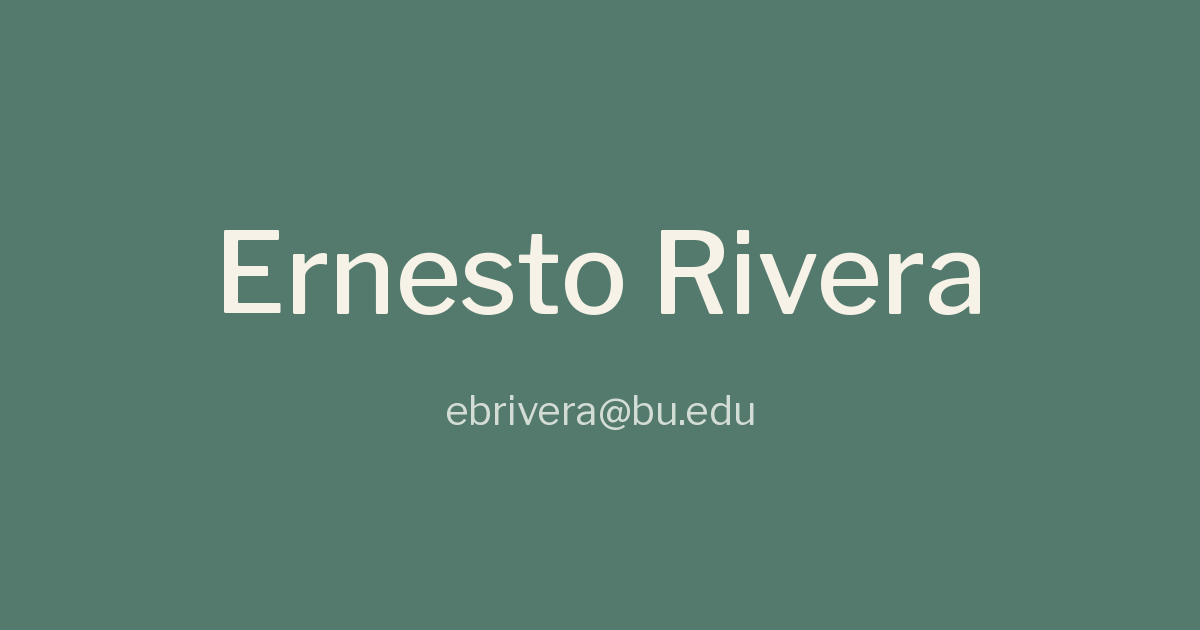
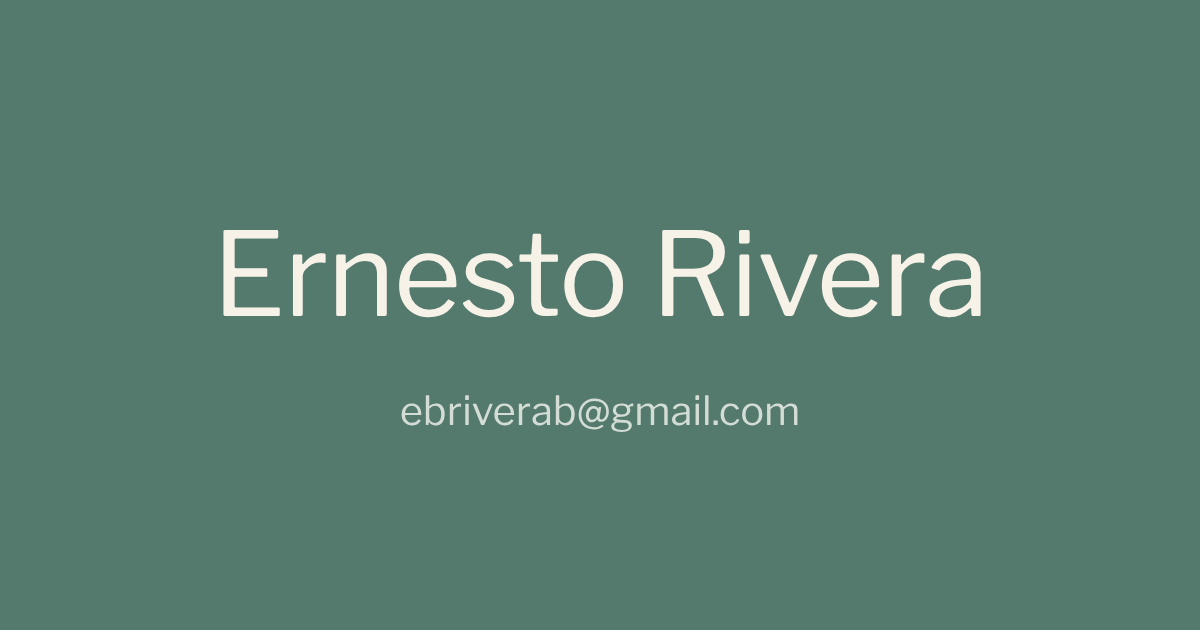
Launch the redesign at ebrivera.com, move the old site to /old, add analytics (#3)
* Switch contact email to ebriverab@gmail.com and add Calendly link

Updates the /new page (mailto links, meta descriptions, share image) and the
old contact page. The About page's calendly link now opens
https://calendly.com/ebriverab/30min.

Claude-Session: https://claude.ai/code/session_018ECjvVKQeMiFtrhzLK8vb9

* Update resume PDF

Claude-Session: https://claude.ai/code/session_018ECjvVKQeMiFtrhzLK8vb9

* Make the redesign the home page, move the old site to /old, add analytics

- public/new/index.html: apply all text-editor edits (intro with bullets, about,
  card copy, city-dot places map, film strip), drop noindex, add Vercel Web
  Analytics (per-panel page views + custom events) and Speed Insights
- next.config.ts: serve the redesign at /, redirect /new and old routes to /old/*
- src/app: old pages moved under src/app/old; Speed Insights in the layout

Claude-Session: https://claude.ai/code/session_018ECjvVKQeMiFtrhzLK8vb9

---------

diff --git a/public/new/index.html b/public/new/index.html
@@ -4,21 +4,25 @@
 <meta charset="utf-8">
 <meta name="viewport" content="width=device-width,initial-scale=1">
 <title>Ernesto Rivera</title>
-<meta name="description" content="ebrivera@bu.edu">
-<meta name="robots" content="noindex">
+<meta name="description" content="ebriverab@gmail.com">
 <link rel="icon" type="image/png" href="/new/icon.png">
 <link rel="apple-touch-icon" href="/new/apple-icon.png">
 <meta property="og:type" content="website">
-<meta property="og:url" content="https://www.ebrivera.com/new">
+<meta property="og:url" content="https://www.ebrivera.com/">
+<link rel="canonical" href="https://www.ebrivera.com/">
 <meta property="og:title" content="Ernesto Rivera">
-<meta property="og:description" content="ebrivera@bu.edu">
+<meta property="og:description" content="ebriverab@gmail.com">
 <meta property="og:image" content="https://www.ebrivera.com/new/og.png">
 <meta property="og:image:width" content="1200">
 <meta property="og:image:height" content="630">
 <meta name="twitter:card" content="summary_large_image">
 <meta name="twitter:title" content="Ernesto Rivera">
-<meta name="twitter:description" content="ebrivera@bu.edu">
+<meta name="twitter:description" content="ebriverab@gmail.com">
 <meta name="twitter:image" content="https://www.ebrivera.com/new/og.png">
+<!-- Vercel Web Analytics + Speed Insights. Page views are sent by hand (see track() below) so each panel (#about, #blog/...) counts as its own page. -->
+<script>window.va=window.va||function(){(window.vaq=window.vaq||[]).push(arguments)};window.si=window.si||function(){(window.siq=window.siq||[]).push(arguments)};</script>
+<script defer src="/_vercel/insights/script.js" data-disable-auto-track="1"></script>
+<script defer src="/_vercel/speed-insights/script.js"></script>
 <link rel="preconnect" href="https://fonts.googleapis.com">
 <link rel="stylesheet" href="https://fonts.googleapis.com/css2?family=Libre+Franklin:wght@400;500;600&display=swap">
 <style>
@@ -198,7 +202,20 @@ h2{font-size:15.5px;font-weight:500;margin-bottom:6px}
 
 /* short laptop screens: keep the home on one screen */
 .col{overflow-y:auto;justify-content:safe center;scrollbar-width:none}
-@media (max-height:820px) and (min-width:821px){.col{padding:24px 0}.blurb{margin-top:14px}.blurb{font-size:14.5px;line-height:1.5}nav{margin-top:18px}.exp{margin-top:18px}.exp li{padding:7px 0}.contact{margin-top:18px}}
+/* rich text: paragraphs and bullet lists */
+.blurb .rich>*+*{margin-top:12px}
+.blurb .rich+.welcome{margin-top:12px}
+.inner .rich>*+*{margin-top:1em}
+.rich p+ul.ticks{margin-top:6px!important}
+.ticks{list-style:none;display:flex;flex-direction:column;gap:3px}
+.inner .ticks{max-width:52ch}
+.ticks li{position:relative;padding-left:18px}
+.ticks li::before{content:"";position:absolute;left:3px;top:.68em;width:6px;height:1.5px;background:var(--acc)}
+.where:empty{display:none}
+/* light bold: one step heavier than the text around it */
+strong.lb{font-weight:500;color:inherit}
+b strong.lb,h2 strong.lb,h4 strong.lb,.name strong.lb,nav strong.lb{font-weight:600}
+@media (max-height:960px) and (min-width:821px){.col{padding:24px 0}.blurb{margin-top:14px;font-size:14.5px;line-height:1.5}.blurb .rich>*+*,.blurb .rich+.welcome{margin-top:9px}.ticks{gap:1px}nav{margin-top:18px}.exp{margin-top:18px}.exp li{padding:7px 0}.contact{margin-top:18px}}
 /* ---------- show and tell: the toy chest ---------- */
 .hint{color:var(--faint);font-size:13px;margin:-6px 0 14px}
 .chestwrap{max-width:560px;container-type:inline-size;margin-top:14px}
@@ -250,6 +267,14 @@ h2{font-size:15.5px;font-weight:500;margin-bottom:6px}
 .legend{display:flex;gap:12px;font-size:12px}
 .legend i{display:inline-block;width:8px;height:8px;border-radius:50%;margin-right:5px;vertical-align:0}
 .rows a{text-decoration:none}
+/* photos card: a short strip of film frames */
+.backside .strip{display:flex;gap:6px;background:#1f2421;padding:12px 8px;border-radius:3px;position:relative;
+  background-image:radial-gradient(circle at 50% 50%,#f4efe3 1.6px,transparent 2px),radial-gradient(circle at 50% 50%,#f4efe3 1.6px,transparent 2px);
+  background-size:12px 8px,12px 8px;background-position:0 1px,0 calc(100% + 0px);background-repeat:repeat-x}
+.backside .strip img{flex:1;min-width:0;aspect-ratio:3/2;object-fit:cover;display:block;border-radius:1px}
+.card.wide .backside{overflow:auto}
+#jmap path,#jmap circle{cursor:default}
+.jvm-tooltip{z-index:30}
 /* ---------- blog ---------- */
 .posts a{display:block}
 .posts .t span{white-space:nowrap}
@@ -274,11 +299,16 @@ svg{-ms-touch-action:none;touch-action:none}.jvm-container{touch-action:none;pos
 
 <aside class="col">
   <div class="name"><button id="home">Ernesto Rivera</button><button class="homeicon" id="homenav" aria-label="home" title="home"><svg viewBox="0 0 24 24" fill="none" stroke="currentColor" stroke-width="1.8" stroke-linecap="round" stroke-linejoin="round"><path d="M3 10.5 12 3l9 7.5"/><path d="M5 9.5V21h5v-6h4v6h5V9.5"/></svg></button></div>
-  <div class="fold"><div><p class="where">I'm Ernesto, I'm from California, and I love building projects people can use!</p></div></div>
+  <div class="fold"><div><p class="where"></p></div></div>
 
   <div class="fold blurb"><div>
-    <p>I've always been drawn to solving problems that can improve people's lives. A natural born problem solver, I was drawn to hackathons in college, surmounting over $65,000 in prize money along with Global Nomination in other competitions. Dabbled a bit in startups throughout college, working in EduTech + Dev Tools + Construction Tech. Previously at Wayfair on the Financing Technology Team delivering products that reached the millions of customers they had, and now working at IBM doing Agent Orchestration Infrastructure on watsonx Orchestrate.</p>
-    <p class="welcome">Thank you for taking the time to visit my website! I love talking to people about their background, what their working on, or what they're listening to, so feel free to reach out or add a song to my queue!</p>
+    <div class="rich">
+    <p>I work on the IBM watsonx Orchestrate team building agentic infrastructure.</p>
+    <p>I grew up in Las Vegas, Los Angeles, and Orange County. I recently graduated from Boston University with a degree in Computer Science, and now live in the Bay Area.</p>
+    <p>My general interests:</p>
+    <ul class="ticks"><li>Building software to solve everyday problems for people</li><li>The intersection of Distributed Systems and Artificial Intelligence</li><li>Startups, hackathons ($65,000+ wins), fast-paced environments, bold ideas</li><li>Exploring the world physically and culinarily (and caffeinatedly)</li></ul>
+    </div>
+    <p class="welcome">Thank you for taking the time to visit my website! I love talking to people about their background, what they're working on, or what they're listening to, so feel free to reach out, look through the rest of my website, or add a song to my queue!</p>
   </div></div>
 
   <nav>
@@ -351,9 +381,10 @@ svg{-ms-touch-action:none;touch-action:none}.jvm-container{touch-action:none;pos
 </template>
 
 <script>
-const WORK=[["IBM","Software Developer","2026 – Present"],["Cantena","Founder","2025 – 26"],["Wayfair","Software Engineer Intern","2025"],["Whiting-Turner","Data Architecture Engineer","2024"],["MyTA","Founding Engineer","2023 – 24"]];
-const PROJ=[["Swarm","Browser-native distributed LLM training","https://tryswarm.dev/"],["Agent Checkout Proof","Is your website ready for Agents to pay?","https://isyouragentreadytopay.vercel.app/"],["Does Not Exist","LLM Planner + Diffusion Model = On Demand Website","https://dne-canvas-demo-production.up.railway.app/demo"],["OCR Digit Classifier","Draw a digit, can we figure it out?","https://github.com/ebrivera/knn-ocr"]];
-const POSTS=[{slug:"training-across-browser-tabs",title:"Training a language model across browser tabs",date:"August 19th 2026"}];
+const WORK=[["IBM", "Software Developer", "2026 – Present"], ["Cantena", "Founder", "2025 – 26"], ["Wayfair", "Software Engineer Intern", "2025"], ["Whiting-Turner", "Data Architecture Engineer", "2024"], ["MyTA", "Founding Engineer", "2023 – 24"]];
+const PROJ=[["Swarm", "Browser-native distributed LLM training", "https://tryswarm.dev/"], ["Agent Checkout Proof", "Is your website ready for Agents to pay?", "https://isyouragentreadytopay.vercel.app/"], ["Does Not Exist", "LLM Planner + Diffusion Model = On Demand Website", "https://dne-canvas-demo-production.up.railway.app/demo"], ["OCR Digit Classifier", "Draw a digit, can we figure it out?", "https://github.com/ebrivera/knn-ocr"]];
+const POSTS=[{"slug": "training-across-browser-tabs", "title": "Training a language model across browser tabs", "date": "August 19th 2026"}];
+const md=s=>String(s).replace(/\*\*([^*]+?)\*\*/g,'<strong class="lb">$1</strong>');
 const host=u=>u.replace(/^https?:\/\//,'').replace(/\/$/,'');
 const I={
  gh:'<svg viewBox="0 0 16 16"><path d="M8 0C3.58 0 0 3.58 0 8c0 3.54 2.29 6.53 5.47 7.59.4.07.55-.17.55-.38 0-.19-.01-.82-.01-1.49-2.01.37-2.53-.49-2.69-.94-.09-.23-.48-.94-.82-1.13-.28-.15-.68-.52-.01-.53.63-.01 1.08.58 1.23.82.72 1.21 1.87.87 2.33.66.07-.52.28-.87.51-1.07-1.78-.2-3.64-.89-3.64-3.95 0-.87.31-1.59.82-2.15-.08-.2-.36-1.02.08-2.12 0 0 .67-.21 2.2.82.64-.18 1.32-.27 2-.27.68 0 1.36.09 2 .27 1.53-1.04 2.2-.82 2.2-.82.44 1.1.16 1.92.08 2.12.51.56.82 1.27.82 2.15 0 3.07-1.87 3.75-3.65 3.95.29.25.54.73.54 1.48 0 1.07-.01 1.93-.01 2.2 0 .21.15.46.55.38A8.013 8.013 0 0016 8c0-4.42-3.58-8-8-8z"/></svg>',
@@ -362,23 +393,44 @@ const I={
  mail:'<svg viewBox="0 0 16 16"><path d="M0 4a2 2 0 0 1 2-2h12a2 2 0 0 1 2 2v8a2 2 0 0 1-2 2H2a2 2 0 0 1-2-2zm2-1a1 1 0 0 0-1 1v.217l7 4.2 7-4.2V4a1 1 0 0 0-1-1zm13 2.383-4.708 2.825L15 11.105zm-.034 6.876-5.64-3.471L8 9.583l-1.326-.795-5.64 3.47A1 1 0 0 0 2 13h12a1 1 0 0 0 .966-.741M1 11.105l4.708-2.897L1 5.383z"/></svg>'
 };
 const $=s=>document.querySelector(s),$$=s=>[...document.querySelectorAll(s)];
-$('#exp').innerHTML=WORK.map(w=>`<li><span><b>${w[0]}</b> <span class="r">${w[1]}</span></span><span class="d">${w[2]}</span></li>`).join("");
-$('#contact').innerHTML=`<a href="https://github.com/ebrivera" target="_blank" rel="noopener" aria-label="GitHub">${I.gh}</a><a href="https://www.linkedin.com/in/ernestobrivera/" target="_blank" rel="noopener" aria-label="LinkedIn">${I.li}</a><a href="https://x.com/ernestobrivera" target="_blank" rel="noopener" aria-label="X">${I.x}</a><a class="resume" href="/ErnestoRivera_Resume.pdf" download="ErnestoRivera_Resume.pdf" aria-label="Download resume (PDF)"><svg viewBox="0 0 24 24"><path d="M11 3h2v10.2l3.6-3.6 1.4 1.4-6 6-6-6 1.4-1.4 3.6 3.6zM4 19h16v2H4z"/></svg><span>Resume</span></a><a class="mail" href="mailto:ebrivera@bu.edu">${I.mail}<span>say hi</span></a>`;
+/* ---------- analytics: one page view per panel, plus a few custom events ---------- */
+const track=(name,data)=>{try{window.va('event',{name,data})}catch(e){}};
+let lastView=null;
+const pageview=p=>{const path='/'+(p||'');if(path===lastView)return;lastView=path;
+  try{window.va('pageview',{route:p&&p.startsWith('blog/')?'/blog/[slug]':path,path})}catch(e){}};
+document.addEventListener('click',e=>{const a=e.target.closest('a[href]');if(!a)return;const h=a.getAttribute('href');
+  if(h.endsWith('.pdf'))track('Resume Downloaded');
+  else if(h.startsWith('mailto:'))track('Contact Clicked',{via:'email',from:a.closest('.contact')?'sidebar':'about'});
+  else if(h.includes('calendly.com'))track('Contact Clicked',{via:'calendly'});
+  else if(h.includes('linkedin.com'))track('Contact Clicked',{via:'linkedin'});
+  else if(h.includes('x.com/'))track('Contact Clicked',{via:'x'});
+  else if(h==='https://github.com/ebrivera')track('Contact Clicked',{via:'github'});
+  else if(a.closest('.rows')&&!a.closest('.posts'))track('Project Visited',{name:a.querySelector('b').textContent});
+  else if(a.closest('.np'))track('Song Opened On Spotify');},true);
+$('#exp').innerHTML=WORK.map(w=>`<li><span><b>${md(w[0])}</b> <span class="r">${md(w[1])}</span></span><span class="d">${w[2]}</span></li>`).join("");
+$('#contact').innerHTML=`<a href="https://github.com/ebrivera" target="_blank" rel="noopener" aria-label="GitHub">${I.gh}</a><a href="https://www.linkedin.com/in/ernestobrivera/" target="_blank" rel="noopener" aria-label="LinkedIn">${I.li}</a><a href="https://x.com/ernestobrivera" target="_blank" rel="noopener" aria-label="X">${I.x}</a><a class="resume" href="/ErnestoRivera_Resume.pdf" download="ErnestoRivera_Resume.pdf" aria-label="Download resume (PDF)"><svg viewBox="0 0 24 24"><path d="M11 3h2v10.2l3.6-3.6 1.4 1.4-6 6-6-6 1.4-1.4 3.6 3.6zM4 19h16v2H4z"/></svg><span>Resume</span></a><a class="mail" href="mailto:ebriverab@gmail.com">${I.mail}<span>say hi</span></a>`;
 
 const PAGES={
- about:()=>`<h2>About</h2><p class="sub">the longer version</p>
-  <p><span class="ph">the expanded about, coming from you</span></p>
-  <div class="sec"><h3>Show and tell</h3><p class="hint">pull something out of the chest</p>
+ about:()=>`<h2>About</h2><p class="sub">curious to learn more?</p>
+  <div class="rich">
+  <p>If you've made it this far, thank you once again. I'm Ernesto, and I'd love to tell you more about who I am, what interests me, and how I got here.</p>
+  <p>I was born with a love for solving problems. With the abundance of books I was gifted as a 6-year-old, the first thing my dad taught me to build was a bookshelf. I loved assembling and giving life to parts and pieces, which is naturally how I fell into robotics. Moving from school to school, I couldn't count on robotics to be a constant.</p>
+  <p>I was introduced properly to Java in my 7th grade AP Computer Science class. I unknowingly opened Pandora's box, and discovered how much you could do behind the 104 keys on your computer. Simultaneously being bored with current solutions, I turned to my love for programming when I started my first high school internship doing manual data entry and became engulfed in the wonders of Computer Vision. Since then, I've only gained a deeper appreciation for the variety of tools we have access to and regularly experimented with new technologies at the hackathons I frequented in college. Agents, MetaHumans, Virtual Reality, Digital Twins, and Voice Agents just to name a few of the tricks I've pulled out of my sleeve to help with the success in the competitions I've attended.</p>
+  <p>Which brings me to my love for startups. I obsess over the technology I build, and I'm drawn to people who similarly obsess over solving problems. I enjoy fast-paced environments where I can be proud to own the work I put out, and be surrounded by people who are willing to take bold risks. I've been a part of a few startups throughout college, between translation services, EduTech, DevTooling and Construction Tech, but the main thing I learned is that contributing to a determined team is euphoric.</p>
+  <p>I've spent some time at larger companies as well. I spent a summer with Wayfair developing on their Financing Technology team on services that reached the millions of customers they had, and now I'm working at IBM doing Agent Orchestration Infrastructure.</p>
+  <p>As I look to the future, I am excited about the opportunity to contribute to the frontier. I'm always finding interest in new subjects, but I'm currently fascinated with building and exploring projects in Inference, Distributed Systems, Computer Vision, FinTech, Agent Communication and Interaction, HCI, and Robotics. I like to surround myself with other inquisitive, determined, and kind people. I'm always looking to make new friends, and share ideas, so please feel free to reach out if any of this resonates with you.</p>
+  </div>
+  <div class="sec"><h3>Show and tell</h3><p class="hint">you'll find some of my biggest interests in this crate; click on any to learn more!</p>
    <div class="chestwrap"><div class="chest" id="chest">
     ${STICKERS.map((k,i)=>`<button class="st" data-k="${k.id}" style="left:${k.x}%;--r:${k.r}deg;--dy:${k.dy}" aria-label="${k.label}"><span class="tag">${k.label}</span>${k.mini}</button>`).join("")}
     <div class="inside"><img src="${A}crate-back.webp" alt=""></div>
     <div class="box">${CHEST}</div>
    </div></div></div>
-  <div class="sec"><p>Thank you for visiting my website, if you've made it this far, let's set up time to talk! Reach out via <a href="mailto:ebrivera@bu.edu">email</a> or my <a href="#" class="missing" title="calendly link needed" onclick="return false">calendly link</a>!</p></div>`,
- projects:()=>`<h2>Projects</h2><p class="sub">things I've built</p>
-  <ul class="rows">${PROJ.map(p=>`<li><a href="${p[2]}" target="_blank" rel="noopener"><div class="t"><b>${p[0]}</b><span class="visit" title="${host(p[2])}">visit</span></div><p>${p[1]}</p></a></li>`).join("")}</ul>
+  <div class="sec"><p>Thank you for visiting my website! If you've made it this far, let's set up time to talk! Reach out via <a href="mailto:ebriverab@gmail.com">email</a> or my <a href="https://calendly.com/ebriverab/30min" target="_blank" rel="noopener">calendly link</a>!</p></div>`,
+ projects:()=>`<h2>Projects</h2><p class="sub">here are some things I've built!</p>
+  <ul class="rows">${PROJ.map(p=>`<li><a href="${p[2]}" target="_blank" rel="noopener"><div class="t"><b>${md(p[0])}</b><span class="visit" title="${host(p[2])}">visit</span></div><p>${md(p[1])}</p></a></li>`).join("")}</ul>
   <div class="sec"><p>Currently building in inference and RL, come back to see what I build!</p></div>`,
- blog:()=>`<h2>Blog</h2><p class="sub">things I've written</p>
+ blog:()=>`<h2>Blog</h2><p class="sub">thoughts I'd like to share</p>
   <ul class="rows posts">${POSTS.map(p=>`<li><a href="#blog/${p.slug}"><div class="t"><b>${p.title}</b><span>${p.date}</span></div></a></li>`).join("")}</ul>`
 };
 const post=slug=>{const p=POSTS.find(x=>x.slug===slug),t=document.getElementById('post-'+slug);return p&&t?`<h2>${p.title}</h2><p class="sub">Ernesto Rivera · ${p.date}</p>
@@ -420,41 +472,38 @@ const A='/new/p/';
 const IMG={travel:['passport.webp','a US passport'],coffee:['coffee.webp','a bag of Equator Tigerwalk Espresso'],hifi:['l82.webp','a JBL L82 Classic speaker'],tri:['bib.webp','Wharf to Wharf race bib'],film:['camera.webp','Olympus Trip 35 film camera']};
 const pic=(k,w)=>`<img src="${A}${IMG[k][0]}" alt="${IMG[k][1]}" style="width:calc(${w}cqw / 5.6)"${k==='hifi'?' class="recv"':''}>`;
 const STICKERS=[
- {id:'travel',label:'places',x:13,r:-8,dy:'-3cqw',mini:pic('travel',108)},
- {id:'film',label:'photos',x:22,r:-5,dy:'-13cqw',mini:pic('film',142)},
- {id:'coffee',label:'coffee',x:38,r:3,dy:'0cqw',mini:pic('coffee',128)},
- {id:'tri',label:'training',x:60.5,r:5,dy:'-4cqw',mini:pic('tri',136)},
- {id:'hifi',label:'listening',x:53.5,r:-2,dy:'0cqw',mini:pic('hifi',104)}
+ {id:'travel',label:"travel",x:13,r:-8,dy:'-3cqw',mini:pic('travel',108)},
+ {id:'film',label:"photos",x:22,r:-5,dy:'-13cqw',mini:pic('film',142)},
+ {id:'coffee',label:"coffee",x:38,r:3,dy:'0cqw',mini:pic('coffee',128)},
+ {id:'tri',label:"training",x:60.5,r:5,dy:'-4cqw',mini:pic('tri',136)},
+ {id:'hifi',label:"listening",x:53.5,r:-2,dy:'0cqw',mini:pic('hifi',104)}
 ];
 const CHEST=`<img src="${A}crate-front.webp" alt="">`;
+const FILM=['film1.webp','film2.webp','film3.webp'];
 const BACK={
- travel:`<h4>Places</h4><dl><dt>favorite</dt><dd><span class="ph2">your favorite place and why</span></dd>
-  <dt>next</dt><dd>New York on Nov 16, then London on Nov 19</dd>
-  <dt>pinned</dt><dd>California, Boston, New York, London, Paris</dd></dl>
+ travel:`<h4>Places</h4><dl><dt>favorite</dt><dd>Tie between Amsterdam &amp; Bangkok! But every place holds a special place in my heart</dd><dt>next</dt><dd>New York on Nov 16, then London on Nov 19</dd></dl>
   <p class="credit">Photo: US passport by ajay_suresh, CC BY 2.0</p>`,
- coffee:`<h4>Coffee in rotation</h4><dl><dt>beans</dt><dd>Equator, Mexico</dd><dt>machine</dt><dd>Breville Bambino Plus</dd>
-  <dt>eyeing</dt><dd>a grinder upgrade, Opus 2 or Turin DF54</dd><dt>setup</dt><dd><span class="ph2">links to your setup</span></dd></dl>
+ coffee:`<h4>Coffee in rotation</h4><dl><dt>beans</dt><dd>Equator, Mexico</dd><dt>machine</dt><dd>Breville Bambino Plus</dd><dt>eyeing</dt><dd>a grinder upgrade, Opus 2 or Turin DF54</dd></dl>
   <p class="credit">Bag: Tigerwalk Espresso, product photo from Equator Coffees</p>`,
- hifi:`<h4>What I listen on</h4><dl><dt>speakers</dt><dd>ELAC towers</dd><dt>amp</dt><dd>WiiM</dd><dt>dream</dt><dd>JBL L82</dd>
-  <dt>note</dt><dd><span class="ph2">a line about your setup or a record to try</span></dd></dl>
+ hifi:`<h4>What I listen on</h4><dl><dt>speakers</dt><dd>ELAC towers</dd><dt>amp</dt><dd>WiiM</dd><dt>dream</dt><dd>JBL L82</dd><dt>note</dt><dd>I love listening to music, and getting good speakers upgraded my experience.</dd></dl>
   <p class="credit">Speaker: JBL L82 Classic MkII, product photo from JBL via Peter Tyson</p>`,
- tri:`<h4>Training</h4><dl><dt>race</dt><dd>Santa Cruz City Tri, Olympic distance</dd><dt>distance</dt><dd>1.5 km swim, 40 km bike, 10 km run</dd>
-  <dt>why</dt><dd><span class="ph2">why you race, or your goal time</span></dd></dl>
+ tri:`<h4>Training</h4><dl><dt>raced</dt><dd>Santa Cruz City Tri, Olympic distance, on Sunday, Sept 27</dd><dt>distance</dt><dd>1.5 km swim, 40 km bike, 10 km run</dd><dt>why</dt><dd>A good reason to get back into shape, and a fun way to explore Santa Cruz while I'm out here in the Bay.</dd></dl>
   <p class="credit">Bib: Wharf to Wharf 2012 by fogcat5, CC BY-SA 2.0</p>`,
- film:`<h4>Photos</h4><dl><dt>camera</dt><dd>my mom's old Olympus, on 35mm film</dd>
-  <dt>note</dt><dd><span class="ph2">a line about shooting film</span></dd><dt>coming</dt><dd>a photos page, later</dd></dl>
+ film:`<h4>Photos</h4><dl><dt>camera</dt><dd>my mom's old Olympus, on 35mm film</dd></dl><div class="strip">${FILM.map(f=>`<img src="${A}${f}" alt="">`).join('')}</div>
   <p class="credit">Photo: Olympus Trip 35 by Marc Lacoste, CC BY 2.0</p>`
 };
-const FRONT={travel:'places I\'ve been',coffee:'coffee in rotation',hifi:'the dream: JBL L82',tri:'Santa Cruz City Tri',film:'35mm'};
-const PLACES=[{name:'California, home',coords:[37.34,-121.89]},{name:'Boston',coords:[42.36,-71.06]},{name:'New York, next: Nov 16',coords:[40.71,-74.0],next:1},{name:'London, next: Nov 19',coords:[51.51,-0.13],next:1},{name:'Paris',coords:[48.86,2.35]}];
+const FRONT={"travel": "places I've been", "coffee": "coffee in rotation", "hifi": "the dream: JBL L82", "tri": "Santa Cruz City Tri", "film": "35mm"};
+// every dot on the places map: a small card on hover, nothing to click
+const PLACES=[{"city":"Tokyo","country":"Japan","coords":[35.68,139.69]},{"city":"Kyoto","country":"Japan","coords":[35.01,135.77]},{"city":"Osaka","country":"Japan","coords":[34.69,135.5]},{"city":"Kobe","country":"Japan","coords":[34.69,135.2]},{"city":"Kuala Lumpur","country":"Malaysia","coords":[3.14,101.69]},{"city":"Penang","country":"Malaysia","coords":[5.41,100.33]},{"city":"Singapore","country":"Singapore","coords":[1.35,103.82]},{"city":"Bangkok","country":"Thailand","coords":[13.76,100.5]},{"city":"Hanoi","country":"Vietnam","coords":[21.03,105.85]},{"city":"Chengdu","country":"China","coords":[30.57,104.07]},{"city":"Abu Dhabi","country":"United Arab Emirates","coords":[24.45,54.38]},{"city":"London","country":"United Kingdom","coords":[51.51,-0.13]},{"city":"Manchester","country":"United Kingdom","coords":[53.48,-2.24]},{"city":"Liverpool","country":"United Kingdom","coords":[53.41,-2.98]},{"city":"Paris","country":"France","coords":[48.86,2.35]},{"city":"Marseille","country":"France","coords":[43.3,5.37]},{"city":"Amsterdam","country":"Netherlands","coords":[52.37,4.9]},{"city":"Berlin","country":"Germany","coords":[52.52,13.4]},{"city":"Munich","country":"Germany","coords":[48.14,11.58]},{"city":"Salzburg","country":"Austria","coords":[47.81,13.06]},{"city":"Budapest","country":"Hungary","coords":[47.5,19.04]},{"city":"Geneva","country":"Switzerland","coords":[46.2,6.14]},{"city":"Rome","country":"Italy","coords":[41.9,12.5]},{"city":"Florence","country":"Italy","coords":[43.77,11.26]},{"city":"Venice","country":"Italy","coords":[45.44,12.32]},{"city":"Santiago de Compostela","country":"Spain","coords":[42.88,-8.54]},{"city":"Lisbon","country":"Portugal","coords":[38.72,-9.14]},{"city":"Toronto","country":"Canada","coords":[43.65,-79.38]},{"city":"Mexico City","country":"Mexico","coords":[19.43,-99.13]},{"city":"San Francisco","country":"United States","coords":[37.77,-122.42]},{"city":"Los Angeles","country":"United States","coords":[34.05,-118.24]},{"city":"San Diego","country":"United States","coords":[32.72,-117.16]},{"city":"Las Vegas","country":"United States","coords":[36.17,-115.14]},{"city":"Seattle","country":"United States","coords":[47.61,-122.33]},{"city":"Portland","country":"United States","coords":[45.52,-122.68]},{"city":"Anchorage","country":"United States","coords":[61.22,-149.9]},{"city":"Hawaii","country":"United States","coords":[21.31,-157.86]},{"city":"Salt Lake City","country":"United States","coords":[40.76,-111.89]},{"city":"Zion National Park","country":"United States","coords":[37.3,-113.03]},{"city":"Yellowstone National Park","country":"United States","coords":[44.43,-110.59]},{"city":"Mount Rushmore","country":"United States","coords":[43.88,-103.46]},{"city":"Denver","country":"United States","coords":[39.74,-104.99]},{"city":"Austin","country":"United States","coords":[30.27,-97.74]},{"city":"San Antonio","country":"United States","coords":[29.42,-98.49]},{"city":"Chicago","country":"United States","coords":[41.88,-87.63]},{"city":"Interlochen","country":"United States","coords":[44.64,-85.77]},{"city":"New Orleans","country":"United States","coords":[29.95,-90.07]},{"city":"Pensacola","country":"United States","coords":[30.42,-87.22]},{"city":"Orlando","country":"United States","coords":[28.54,-81.38]},{"city":"Atlanta","country":"United States","coords":[33.75,-84.39]},{"city":"Savannah","country":"United States","coords":[32.08,-81.09]},{"city":"Washington, D.C.","country":"United States","coords":[38.91,-77.04]},{"city":"New York City","country":"United States","coords":[40.71,-74.01]},{"city":"New Haven","country":"United States","coords":[41.31,-72.92]},{"city":"Boston","country":"United States","coords":[42.36,-71.06]},{"city":"Madrid","country":"Spain","coords":[40.42,-3.7]}];
 let openCard=null;
 function openSticker(btn){
   if(openCard)return;
   const k=btn.dataset.k,from=btn.getBoundingClientRect(),pg=$('#page').getBoundingClientRect();
+  track('Sticker Opened',{item:k});
   const scrim=document.createElement('div');scrim.className='scrim';document.body.appendChild(scrim);
   const card=document.createElement('div');card.className='card'+(k==='travel'?' wide':'');
   const art=k==='travel'?'<div id="jmap"></div>':`<img src="${A}${IMG[k][0]}" alt="${IMG[k][1]}"${k==='hifi'?' style="border-radius:8px"':''}>`;
-  const legend=k==='travel'?`<span class="legend"><span><i style="background:${C.gold}"></i>been</span><span><i style="background:${C.red}"></i>next</span></span>`:'';
+  const legend=k==='travel'?`<span class="legend"><span><i style="background:${C.gold}"></i>been</span></span>`:'';
   card.innerHTML=`<div class="flip"><div class="face front"><div class="cardart${k==='travel'?' mapart':''}">${art}</div>
     <div class="cap"><span>${FRONT[k]}</span>${legend}<span class="cardbtns"><button data-a="flip">turn over</button><button data-a="close" aria-label="put it back">×</button></span></div></div>
     <div class="face backside">${BACK[k]}<div class="cardbtns"><button data-a="flip">turn over</button><button data-a="close">put it back</button></div></div></div>`;
@@ -467,9 +516,11 @@ function openSticker(btn){
   card.animate([{transform:`translate(${dx}px,${dy}px) scale(${sx},${sy}) rotate(${getComputedStyle(btn).getPropertyValue('--r')})`,opacity:.6},{transform:'translate(0,-24px) scale(1.04)',opacity:1,offset:.7},{transform:'none',opacity:1}],{duration:650,easing:'cubic-bezier(.2,.8,.2,1)'});
   let vmap=null;
   if(k==='travel')setTimeout(()=>{try{vmap=new jsVectorMap({selector:'#jmap',map:'world',zoomButtons:true,zoomOnScroll:false,backgroundColor:'transparent',
-     regionStyle:{initial:{fill:'#54796d',stroke:'#f4efe3',strokeWidth:.5},hover:{fill:'#3f6256'}},
-     markers:PLACES,markerStyle:{initial:{fill:C.gold,stroke:'#2f4b40',strokeWidth:1.5,r:6},hover:{fill:'#fff'}},
-     onLoaded(m){PLACES.forEach((p,i)=>{if(p.next){const el=document.querySelector(`#jmap [data-index="${i}"]`);el&&el.setAttribute('fill',C.red)}})}})}catch(e){$('#jmap').innerHTML='<p style="padding:20px;color:var(--muted)">map could not load</p>'}},700);
+     regionStyle:{initial:{fill:'#54796d',stroke:'#f4efe3',strokeWidth:.5},hover:{fill:'#54796d',cursor:'default'}},
+     showTooltip:true,markers:PLACES.map(x=>({name:x.city,coords:x.coords})),
+     markerStyle:{initial:{fill:C.gold,stroke:'#2f4b40',strokeWidth:1,r:3.2},hover:{fill:'#fff6d8',stroke:'#2f4b40',cursor:'default'}},
+     onRegionTooltipShow(e,t){t.hide()},
+     onMarkerTooltipShow(e,t,i){const x=PLACES[i];t.text(`<b>${x.city}</b>${x.country?'<br>'+x.country:''}`,true)}})}catch(e){$('#jmap').innerHTML='<p style="padding:20px;color:var(--muted)">map could not load</p>'}},700);
   // put it back: the card fades away while the sticker itself flies back to its spot in the chest
   let closing=false;
   const close=()=>{if(closing)return;closing=true;scrim.classList.remove('on');
@@ -490,7 +541,7 @@ function openSticker(btn){
     fly.animate(frames,{duration:480,easing:'cubic-bezier(.3,.7,.2,1)',fill:'forwards'}).onfinish=()=>{
       btn.classList.remove('out');fly.remove();btn.animate([{translate:`0 ${-lift}px`},{translate:'0 0'}],{duration:280,easing:'cubic-bezier(.5,0,.6,1.25)'});try{vmap&&vmap.destroy()}catch(e){};document.querySelectorAll('.jvm-tooltip').forEach(t=>t.remove());
       card.remove();scrim.remove();openCard=null;btn.focus({preventScroll:true})}};
-  card.addEventListener('click',e=>{const a=e.target.closest('[data-a]');if(!a)return;if(a.dataset.a==='flip')card.classList.toggle('back');else close()});
+  card.addEventListener('click',e=>{const a=e.target.closest('[data-a]');if(!a)return;if(a.dataset.a==='flip'){card.classList.toggle('back');if(card.classList.contains('back'))track('Card Turned Over',{item:k})}else close()});
   scrim.onclick=close;openCard={close};
   setTimeout(()=>card.querySelector('[data-a=flip]').focus({preventScroll:true}),660);
 }
@@ -506,6 +557,7 @@ function go(p){
   if(openCard)openCard.close();
   const inner=$('#inner');
   $$('nav button[data-p]').forEach(b=>b.classList.toggle('on',!!p&&b.dataset.p===p.split('/')[0]));
+  pageview(p);
   if(!p){document.body.classList.remove('open');cur=null;inner.classList.remove('show');try{history.replaceState(null,'',location.pathname)}catch(e){};return}
   const wasOpen=document.body.classList.contains('open');
   inner.classList.remove('show');
@@ -519,7 +571,7 @@ $('#homenav').onclick=()=>go(null);
 $('#home').onclick=()=>go(null);
 addEventListener('keydown',e=>{if(e.key==='Escape')go(null)});
 addEventListener('hashchange',()=>go(view(location.hash.slice(1))?location.hash.slice(1):null));
-if(view(location.hash.slice(1)))go(location.hash.slice(1));
+if(view(location.hash.slice(1)))go(location.hash.slice(1));else pageview(null);
 
 // big album card
 (function(){
@@ -537,7 +589,7 @@ if(view(location.hash.slice(1)))go(location.hash.slice(1));
     ['click','wheel','touchmove','keydown','scroll'].forEach(e=>removeEventListener(e,close,{capture:true}));
     big.classList.add('out');setTimeout(()=>{if(big.classList.contains('out'))big.hidden=true},250);
   }
-  art.onclick=e=>{if(big.hidden||big.classList.contains('out')){e.stopPropagation();open()}};
+  art.onclick=e=>{if(big.hidden||big.classList.contains('out')){e.stopPropagation();open();track('Album Art Opened')}};
 })();
 
 // add to queue (mock: a real version calls a small API route that adds to Spotify)
@@ -622,10 +674,12 @@ $('#pi').style.width=(t/L*100)+'%';
       let r=null,d={};
       try{r=await fetch('/api/spotify/queue',{method:'POST',headers:{'Content-Type':'application/json'},body:JSON.stringify({uri:t.uri,name:who})});d=await r.json().catch(()=>({}))}catch(e){}
       if(r&&r.ok){
+        track('Song Queued',{title:t.title.slice(0,200),artist:t.artist.slice(0,200),named:who?'yes':'no'});
         qres.innerHTML=`<li class="done"><span class="c" style="background:${cover(t)}"></span><div><b>Queued: ${esc(t.title)}</b><span>thanks${who?', '+who:''}. ${d.pending?"it goes in my queue next time I'm listening":"it's in the queue"}</span></div></li>`;
         // refresh the bar and the "coming up" list from Spotify instead of guessing where the song landed
         setTimeout(()=>poll(true),700);setTimeout(()=>poll(true),3000);
         qbtn.textContent='queued ✓';setTimeout(()=>{close();qbtn.textContent='+ add to my queue'},1800);return}
+      track('Queue Failed',{reason:d.error||'error'});
       const msg=d.error==='not_listening'?"I'm not listening right now, so there's no queue to add to. try again later"
         :"that didn't go through, try again in a bit";
       qres.innerHTML=`<li class="done">${msg}</li>`;
@@ -633,7 +687,7 @@ $('#pi').style.width=(t/L*100)+'%';
     const open=()=>{poll(true);qpop.hidden=false;qbtn.setAttribute('aria-expanded',true);qin.value='';qres.innerHTML=hint;qin.focus()};
     const close=()=>{qpop.hidden=true;qbtn.setAttribute('aria-expanded',false)};
     let deb;qin.oninput=()=>{clearTimeout(deb);deb=setTimeout(search,250)};
-    qbtn.onclick=()=>qpop.hidden?open():close();
+    qbtn.onclick=()=>{if(qpop.hidden){open();track('Queue Opened')}else close()};
     qin.onkeydown=e=>{e.stopPropagation();if(e.key==='Enter'){const f=$('#qres li[data-i]');f&&f.click()}if(e.key==='Escape')close()};
   });
 })();

diff --git a/src/app/old/components/Header.tsx b/src/app/old/components/Header.tsx
@@ -10,10 +10,10 @@ const Header = ({ scrolledPastFirst = false, isHome = false }) => {
   const [mobileMenuOpen, setMobileMenuOpen] = useState(false);
 
   const navItems = [
-    { name: 'Home', path: '/' },
-    { name: 'About', path: '/about' },
-    { name: 'Portfolio', path: '/portfolio' },
-    { name: 'Contact', path: '/contact' },
+    { name: 'Home', path: '/old' },
+    { name: 'About', path: '/old/about' },
+    { name: 'Portfolio', path: '/old/portfolio' },
+    { name: 'Contact', path: '/old/contact' },
   ];
 
   // On the home hero, SnapHeroTitle already carries the full name + tagline
@@ -43,7 +43,7 @@ const Header = ({ scrolledPastFirst = false, isHome = false }) => {
 
           {showCompactTitle && (
             <Link
-              href="/"
+              href="/old"
               className="font-mono text-xs tracking-[0.2em] uppercase text-paper/80 hover:text-amber transition-colors"
             >
               Ernesto Rivera

diff --git a/src/app/old/contact/page.tsx b/src/app/old/contact/page.tsx
@@ -25,11 +25,11 @@ export default function Contact() {
 
             <div className="space-y-6">
               <ExternalLinkButton
-                href="mailto:ebrivera@bu.edu"
+                href="mailto:ebriverab@gmail.com"
                 className="group flex items-center gap-4 text-paper w-full text-left"
               >
                 <span className="w-8 h-px bg-paper/40 group-hover:w-12 group-hover:bg-amber transition-all duration-300" />
-                <span className="font-mono text-sm tracking-wide group-hover:text-amber group-hover:tracking-wider transition-all duration-300">ebrivera@bu.edu</span>
+                <span className="font-mono text-sm tracking-wide group-hover:text-amber group-hover:tracking-wider transition-all duration-300">ebriverab@gmail.com</span>
               </ExternalLinkButton>
 
               <ExternalLinkButton

diff --git a/next.config.ts b/next.config.ts
@@ -1,9 +1,24 @@
 import type { NextConfig } from "next";
 
 const nextConfig: NextConfig = {
-  // Preview of the redesign, served from public/new until it replaces the home page.
+  // The home page is the static site in public/new; the previous Next.js site lives under /old.
   async rewrites() {
-    return [{ source: "/new", destination: "/new/index.html" }];
+    return {
+      beforeFiles: [{ source: "/", destination: "/new/index.html" }],
+      afterFiles: [],
+      fallback: [],
+    };
+  },
+  async redirects() {
+    return [
+      { source: "/new", destination: "/", permanent: true },
+      { source: "/new/index.html", destination: "/", permanent: true },
+      ...["about", "portfolio", "contact", "blog"].map((p) => ({
+        source: `/${p}`,
+        destination: `/old/${p}`,
+        permanent: true,
+      })),
+    ];
   },
 };
 

diff --git a/src/app/layout.tsx b/src/app/layout.tsx
@@ -1,5 +1,6 @@
 import type { Metadata } from "next";
 import { Analytics } from "@vercel/analytics/next";
+import { SpeedInsights } from "@vercel/speed-insights/next";
 import "./globals.css";
 
 export const metadata: Metadata = {
@@ -17,6 +18,7 @@ export default function RootLayout({
       <body className="antialiased font-sans" suppressHydrationWarning={true}>
         {children}
         <Analytics />
+        <SpeedInsights />
       </body>
     </html>
   );
